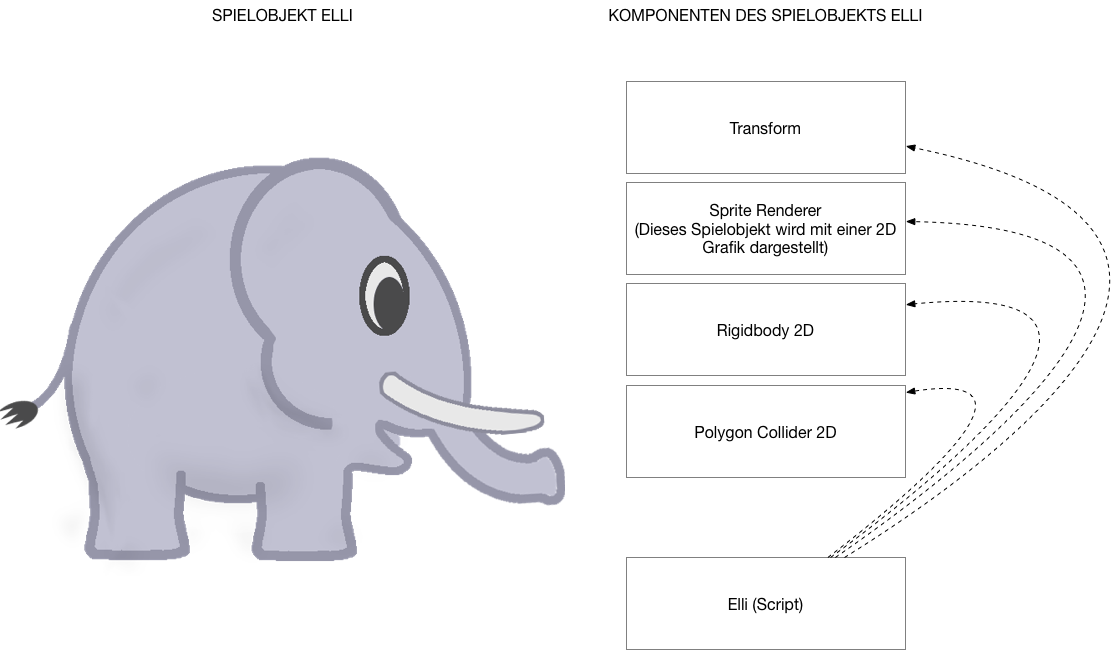
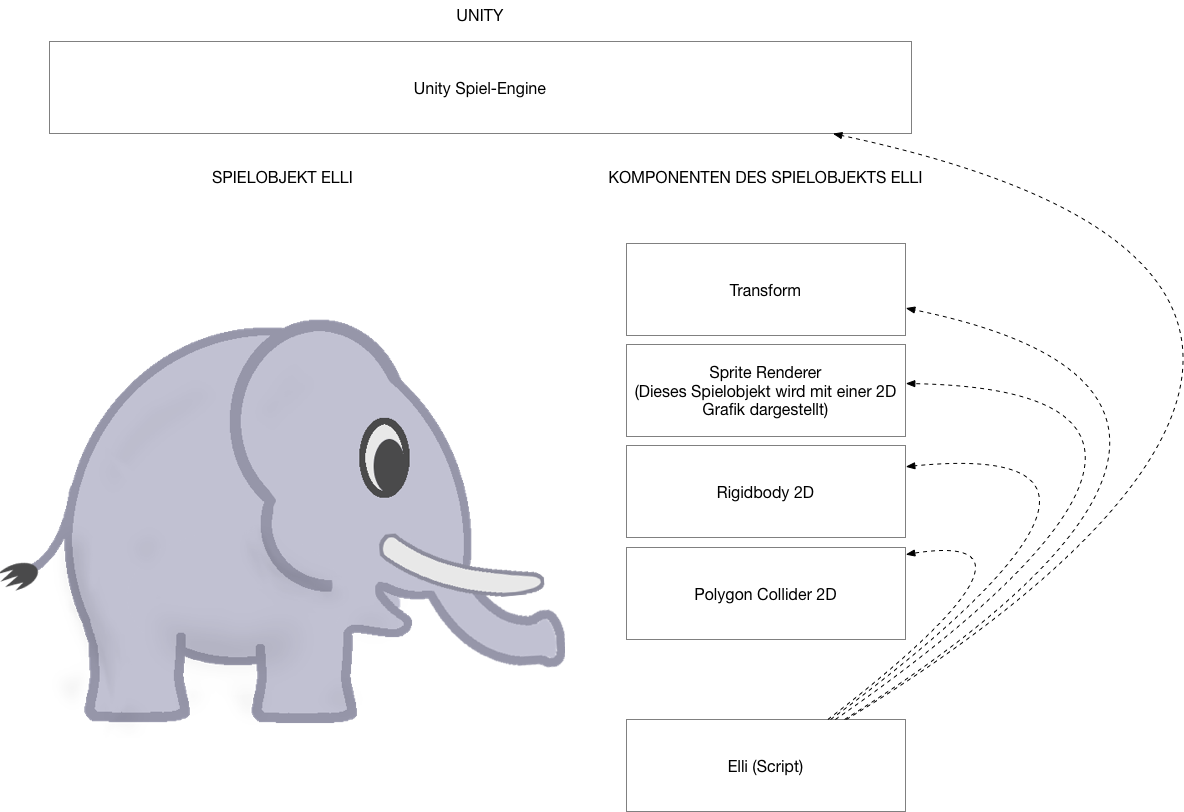
continued

diff --git a/site/userinterface/index.html b/site/userinterface/index.html
@@ -633,9 +633,11 @@
 </div>
 <div class="admonition bug">
 <p class="admonition-title">ACHTUNG</p>
-<p>Merke dir, <strong>wo</strong> du dein Projekt am Computer anlegst. </p>
+<p>Merke dir, <strong>wo</strong> du dein Projekt am Computer anlegst.</p>
 <p>Wenn du weißt, wo dein Projekt ist, kannst du es leicht kopieren oder auf deinem USB Stick speichern.</p>
 </div>
+<details class="tip"><summary>TIPP</summary><p>Du kannst auch in Unity über den Menüpunkt <em>"Assets"</em> &gt; <em>"Im <em>Dateimanager</em> anzeigen"</em> die Dateien deines Projekts im Dateisystem auf deinem Computer anzeigen lassen.</p>
+</details>
 <h3 id="spiel-starten-und-stoppen">Spiel starten (und stoppen)<a class="headerlink" href="#spiel-starten-und-stoppen" title="Permanent link">&para;</a></h3>
 <h3 id="speichern">Speichern<a class="headerlink" href="#speichern" title="Permanent link">&para;</a></h3>
 <h2 id="visual-studio-bedienoberflache">Visual Studio Bedienoberfläche<a class="headerlink" href="#visual-studio-bedienoberflache" title="Permanent link">&para;</a></h2>

diff --git a/docs/firststeps.md b/docs/firststeps.md
@@ -33,7 +33,7 @@ Auch physikalische Eigenschaften werden einem Spielobjekt durch eine Komponente 
 
 C*#*-Skripte werden einem Spielobjekt über *"Add Component"* > *"New Script"* > *"C*#*-Script"* "angeheftet". 
 
-Das besondere an Skripten ist, dass du darin auf andere Komponenten des Spielobjekts oder überhaupt auf andere Spielobjekte in einer Szene zugreifen kannst. Somit kannst du gezielt die Spiellogik für dein Spiel programmieren. 
+Das besondere an Skripten ist, dass du darin auf andere Komponenten des Spielobjekts oder überhaupt auf andere Spielobjekte in einer Szene zugreifen kannst. Weiters können Eingaben durch Keyboard, Maus oder GamePad verwendet  oder andere Aspekte der Unity [Spiel-Engine](https://de.wikipedia.org/wiki/Spiel-Engine) verändert werden. Somit kannst du gezielt die Spiellogik für dein Spiel programmieren. 
 
 
 ![Spielobjekt und Komponenten](img/gameobjectandcomponents.png)

diff --git a/docs/index.md b/docs/index.md
@@ -41,7 +41,7 @@ Was wirst du im [BouncyFant Tutorial](http://example.com/ "BouncyFant Tutorial")
 
 * Dateimanagement in Unity
 * Spielobjekt-Animation in Unity
-* Spielobjektkomponente Rigidbody2d 
+* Spielobjektkomponente Rigidbody2D 
 * Spielobjekte bewegen
 * Springen mit Hilfe von Vektoren
 * Kollisionsabfrage in Unity
